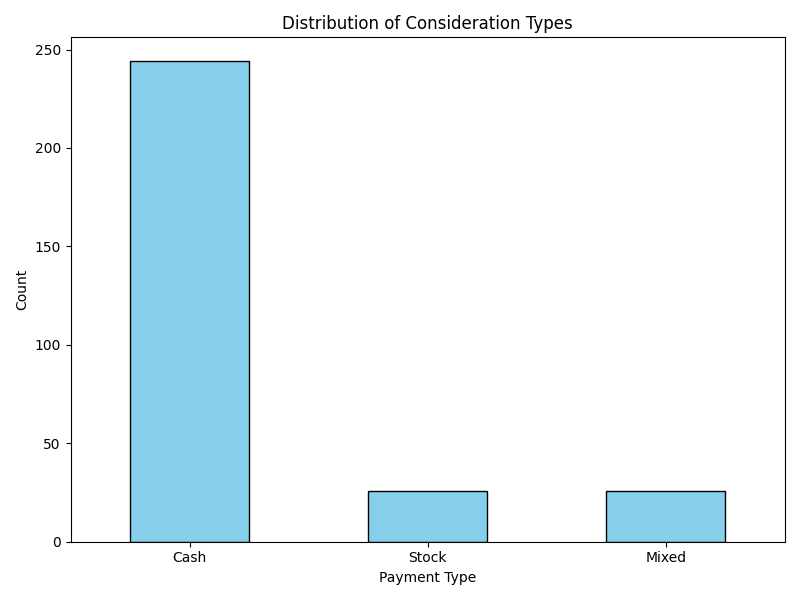
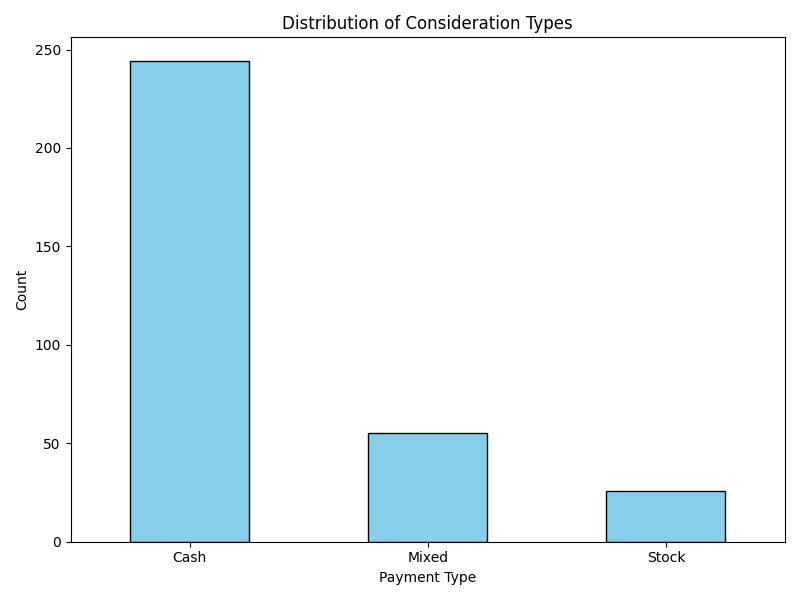
graph change

Changed region(s): [[0.4375, 0.72, 0.625, 0.84], [0.5, 0.9, 0.5625, 0.96], [0.8125, 0.9, 0.8438, 0.96]]

diff --git a/Descriptive Statistics/consideration_distribution.py b/Descriptive Statistics/consideration_distribution.py
@@ -21,10 +21,10 @@ def map_payment_type(value):
         return "Cash"
     elif val == "Common Equity":
         return "Stock"
-    elif "Cash" in val:
+    elif val != "Unknown":
         return "Mixed"
     else:
-        return None  # Exclude Unknown, Combinations, etc.
+        return None  # Exclude Unknown
 
 df["Consideration Category"] = df["Consideration Offered"].apply(map_payment_type)
 cleaned = df.dropna(subset=["Consideration Category"])
